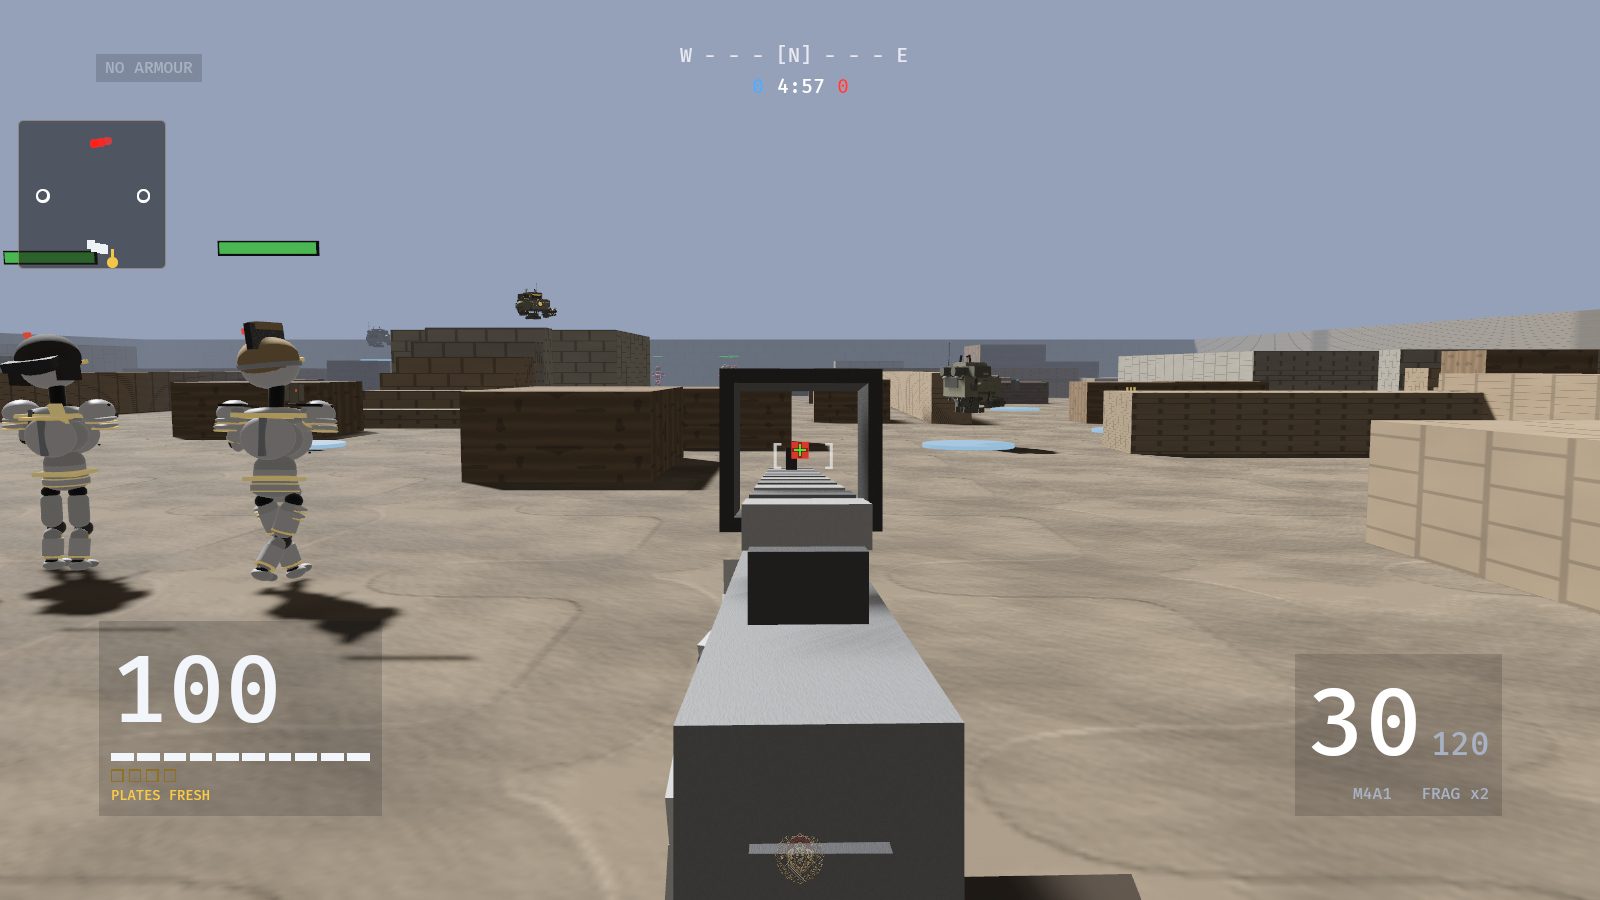
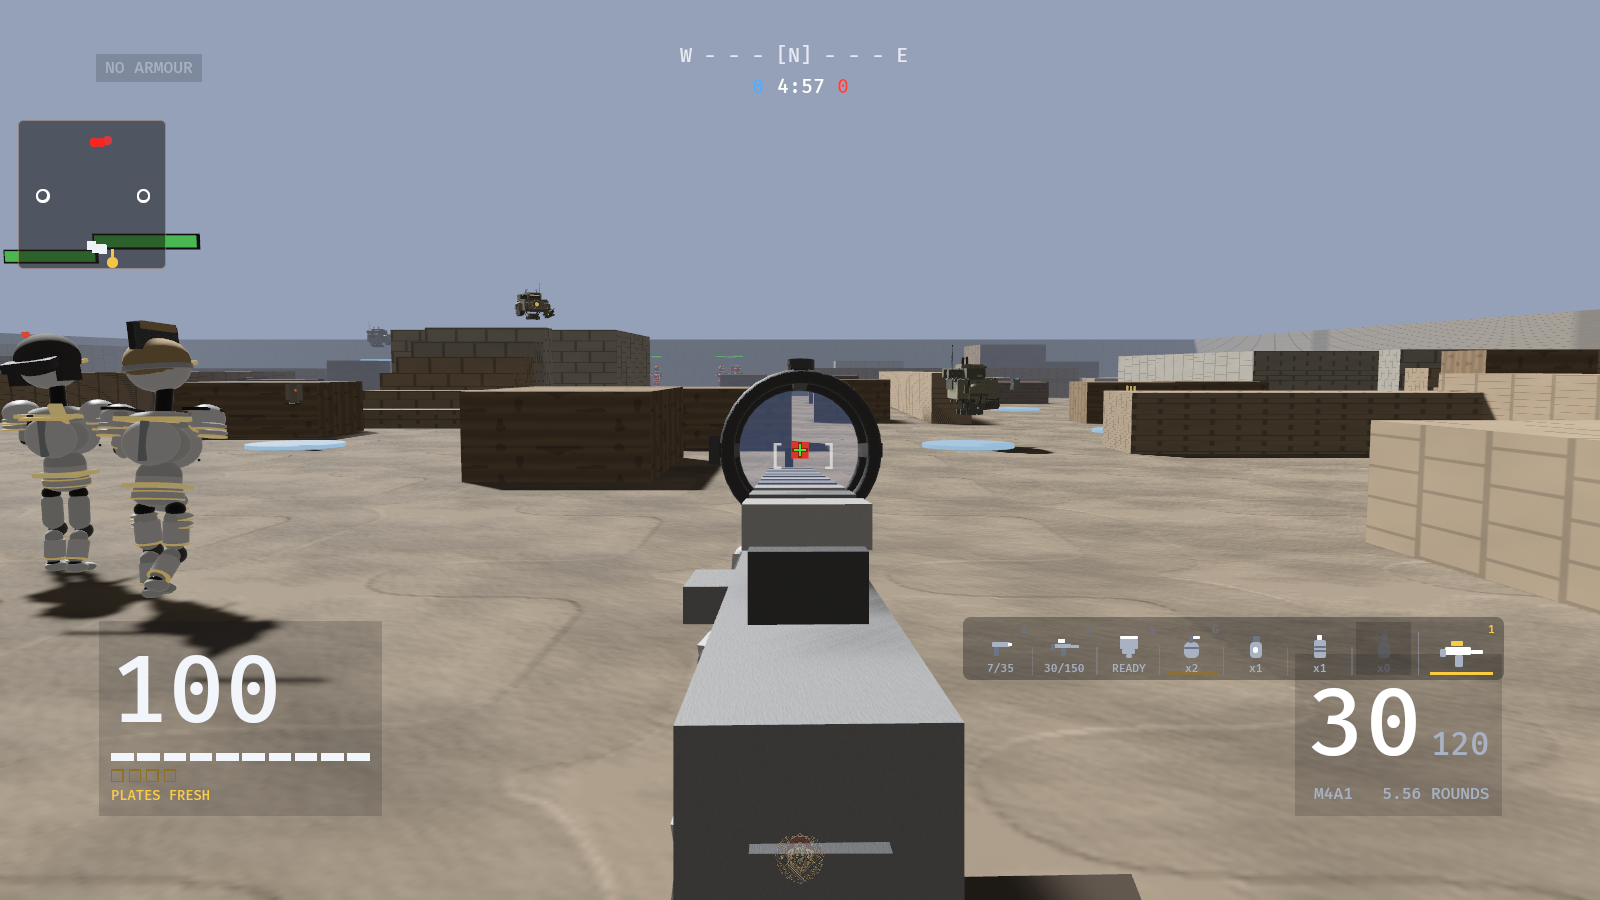
The optic is a round tube now, because the octagon did not close
The first attempt built the tube as an octagonal ring - four straight
walls with cylindrical corner rounds on the diagonals - and the
capture killed it. sights_a photographed four bars with four detached
black dots floating at the corners, because the rounds sit at radius
outer while the bar ends sit at radius outer*1.22, leaving a 5 mm gap
on every diagonal. Closing that gap needs rounds fat enough to eat
5 mm of the window, so the shape is not constructible: WPart's tilt
rotates about X only, and no box in this vocabulary can lie on a 45
degree diagonal.

So the ring becomes a primitive. ModelKit carries an optic_ring mesh -
a torus baked at the optic's own major:minor ratio so it takes a
UNIFORM scale, since a non-uniform scale on a torus shears it into an
oval - and WPart gains a "ring" flag beside "cyl". A flag rather than
a Prim enum because the cyl bool is threaded through hundreds of calls
and the spear profile, and one mesh used in one place does not justify
renaming every weapon in the file.

The tube is two bezels joined by four flush struts: skeletal rather
than a shell, because the shell of a real tube is opaque and an opaque
shell in a 1x sight is a sight you cannot aim through. Front-on it is
one circle; from the side, two circles with depth between them.

The bezels are placed so the bore is exactly OPTIC_HALF and the outer
face is exactly where the flat frame's was, so the clear aperture and
all eight screen profiles are unchanged.
[…]

diff --git a/engine/crates/jk_tdm/src/main.rs b/engine/crates/jk_tdm/src/main.rs
@@ -4075,6 +4075,22 @@ struct ModelKit {
     cube: Handle<Mesh>,
     cyl: Handle<Mesh>, // unit cylinder: radius 0.5, height 1, axis Y
     ball: Handle<Mesh>, // unit sphere: radius 0.5
+    /// §owner RED DOT: the optic's TUBE RING, axis Y, overall radius 0.5.
+    ///
+    /// A purpose-proportioned mesh rather than a generic torus, and that
+    /// is deliberate: a ring has two radii, so a generic one would need
+    /// a non-uniform scale to reach the optic's proportions and a
+    /// non-uniform scale on a torus shears it into an oval. Baked at the
+    /// optic's own major:minor ratio it takes a UNIFORM scale, and the
+    /// one scale factor is the ring's overall diameter.
+    ///
+    /// It exists because the tube cannot be built from the box-and-
+    /// cylinder kit at all. A solid cylinder is a solid disc to aim
+    /// through, and an octagon of boxes is not constructible: `WPart`'s
+    /// `tilt` rotates about X only, so no box in this vocabulary can sit
+    /// on a 45 degree diagonal. That was tried first and photographed as
+    /// four bars with four detached dots floating at the corners.
+    optic_ring: Handle<Mesh>,
     gunmetal: Handle<StandardMaterial>,
     steel: Handle<StandardMaterial>,
     wood: Handle<StandardMaterial>,
@@ -4367,6 +4383,14 @@ impl ModelKit {
 /// (the bow stands along +Y with its string toward −Z).
 struct WPart {
     cyl: bool,
+    /// true → the optic's TUBE RING mesh instead of a box or a cylinder.
+    ///
+    /// A third flag rather than a `Prim` enum on purpose: `cyl: bool` is
+    /// threaded through a couple of hundred `wp()` calls and the spear
+    /// profile, and widening it to an enum would be a rename touching
+    /// every weapon in the file to add one mesh used in one place.
+    /// `ring` takes its size as the ring's overall DIAMETER, uniformly.
+    ring: bool,
     tone: Tone,
     pos: Vec3,
     /// radians about X - magazines and stocks are raked, never square
@@ -4411,7 +4435,14 @@ fn wp(cyl: bool, tone: Tone, pos: (f32, f32, f32), tilt: f32, size: (f32, f32, f
         size: Vec3::new(size.0, size.1, size.2),
         detail: false,
         spin: false,
+        ring: false,
     }
+}
+
+/// The optic's tube ring. `d` is the ring's OVERALL diameter and the
+/// scale is uniform, which is what keeps it circular.
+fn wo(tone: Tone, pos: (f32, f32, f32), tilt: f32, d: f32) -> WPart {
+    WPart { ring: true, ..wp(false, tone, pos, tilt, (d, d, d)) }
 }
 
 fn wd(cyl: bool, tone: Tone, pos: (f32, f32, f32), tilt: f32, size: (f32, f32, f32)) -> WPart {
@@ -4891,6 +4922,16 @@ const OPTIC_DOT_M: f32 = 0.0062;
 /// every firearm's screen profile (`weapon_bounded_corners` measures
 /// it), so a tall turret would spend the whole remaining headroom of
 /// eight guns on decoration.
+/// The tube RING: centreline radius, wall radius, and the two summed.
+///
+/// The centreline is placed so the ring's inner face is exactly
+/// `OPTIC_HALF` - the clear aperture is preserved to the millimetre -
+/// and its outer face is exactly where the old flat frame's outer face
+/// was, so the eight guns' screen profiles measure the same reach they
+/// always did.
+const OPTIC_RING_MAJOR: f32 = OPTIC_HALF + OPTIC_FRAME * 0.5;
+const OPTIC_RING_MINOR: f32 = OPTIC_FRAME * 0.5;
+const OPTIC_RING_OUTER: f32 = OPTIC_RING_MAJOR + OPTIC_RING_MINOR;
 const OPTIC_TURRET_D: f32 = 0.010;
 const OPTIC_TURRET_H: f32 = 0.004;
 /// The mount FOOT - the flat clamp plate that sits on the rail, wider
@@ -4923,13 +4964,7 @@ const RETICLE_DRIFT_M: f32 = 0.0075;
 /// The cross is 1x - it moves the AIM POINT nowhere. It is a sight
 /// picture, not a zoom: magnification stays whatever `zoom_deg` says.
 fn push_red_dot(parts: &mut Vec<WPart>, y: f32, z: f32, mount_top: f32) {
-    // `outer` is the ring's CENTRELINE radius, and the whole housing is
-    // built on it: bars sit at it, corner rounds are centred on it, so
-    // every point of the ring is `outer +/- OPTIC_FRAME/2` from centre.
-    // That keeps the outermost reach identical to the flat frame this
-    // replaced - which matters, because eight guns' screen profiles are
-    // measured off this geometry.
-    let outer = OPTIC_HALF + OPTIC_FRAME * 0.5;
+    let outer = OPTIC_RING_MAJOR;
     // The check the flat frame carried compared `y - outer` - the lower
     // BAR'S CENTRELINE - against the receiver, so it was quietly
     // permitting half a bar of overlap. The real lower face is half a
@@ -4950,36 +4985,35 @@ fn push_red_dot(parts: &mut Vec<WPart>, y: f32, z: f32, mount_top: f32) {
     );
     // ---- THE TUBE ----------------------------------------------------
     //
-    // §owner "more realistic": a reflex optic is a round TUBE with a
-    // coated lens, not the flat open square this was. It cannot be an
-    // actual cylinder - a solid cylinder is a solid disc to look at, and
-    // this is a sight you aim through - so the tube is an OCTAGONAL
-    // RING: four straight walls with four cylindrical corner rounds
-    // filling the diagonals. From the shooter's eye that silhouette
-    // reads round; the window through it stays fully open.
+    // §owner "more realistic": a reflex optic is a round TUBE you look
+    // through a coated lens of, not the flat open square this was.
     //
-    // The corners must be cylinders and the walls must be boxes because
-    // `tilt` rotates about X only: there is no way to place a box on a
-    // 45 degree diagonal in this kit, and a Bevy cylinder tilted a
-    // quarter turn is exactly the Z-aligned rod a corner needs.
-    const DIAG: f32 = std::f32::consts::FRAC_1_SQRT_2;
-    let corner = outer * DIAG; // centre of each corner round
-    let wall = corner * 2.0; // straight run between two corners
-    for (x, yy, sx, sy) in [
-        (-outer, 0.0, OPTIC_FRAME, wall),
-        (outer, 0.0, OPTIC_FRAME, wall),
-        (0.0, outer, wall, OPTIC_FRAME),
-        (0.0, -outer, wall, OPTIC_FRAME),
-    ] {
-        parts.push(wp(false, Tone::Black, (x, y + yy, z), 0.0, (sx, sy, OPTIC_DEPTH)));
-    }
-    for (sx, sy) in [(-1.0_f32, -1.0_f32), (-1.0, 1.0), (1.0, -1.0), (1.0, 1.0)] {
-        parts.push(wp(
-            true,
+    // Two RINGS - an objective bezel at the muzzle end and an ocular
+    // bezel at the eye end - joined by four flush struts. That is a
+    // skeletal tube rather than a shell, and it has to be: the shell of
+    // a real tube is opaque, and an opaque shell in a 1x sight is a
+    // sight you cannot aim through. The rings carry the whole read.
+    // Front-on you see one circle; from the side, two circles and the
+    // struts between them, which is a tube.
+    //
+    // The struts sit at the four cardinal points with exactly the wall's
+    // own square section, so each one hides inside its ring's silhouette
+    // instead of breaking the circle.
+    for zz in [-1.0_f32, 1.0] {
+        parts.push(wo(
             Tone::Black,
-            (corner * sx, y + corner * sy, z),
+            (0.0, y, z + zz * OPTIC_DEPTH * 0.45),
             FRAC_PI_2,
-            (OPTIC_FRAME, OPTIC_DEPTH, OPTIC_FRAME),
+            OPTIC_RING_OUTER * 2.0,
+        ));
+    }
+    for (x, yy) in [(-outer, 0.0), (outer, 0.0), (0.0, outer), (0.0, -outer)] {
+        parts.push(wp(
+            false,
+            Tone::Black,
+            (x, y + yy, z),
+            0.0,
+            (OPTIC_FRAME, OPTIC_FRAME, OPTIC_DEPTH),
         ));
     }
     // ---- THE LENS ----------------------------------------------------
@@ -10794,7 +10828,13 @@ fn spawn_weapon_model(
         if p.detail && !with_detail {
             continue; // bots carry the plain silhouette - the LOD working
         }
-        let mesh = if p.cyl { kit.cyl.clone() } else { kit.cube.clone() };
+        let mesh = if p.ring {
+            kit.optic_ring.clone()
+        } else if p.cyl {
+            kit.cyl.clone()
+        } else {
+            kit.cube.clone()
+        };
         let mut e = commands.spawn((
             Mesh3d(mesh),
             MeshMaterial3d(kit.tone(p.tone)),
@@ -16087,6 +16127,13 @@ fn setup(
     let kit = ModelKit {
         cube: meshes.add(with_tangents(Cuboid::new(1.0, 1.0, 1.0).into())),
         cyl: meshes.add(with_tangents(Cylinder::new(0.5, 1.0).into())),
+        optic_ring: meshes.add(with_tangents(
+            Torus {
+                minor_radius: 0.5 * OPTIC_RING_MINOR / OPTIC_RING_OUTER,
+                major_radius: 0.5 * OPTIC_RING_MAJOR / OPTIC_RING_OUTER,
+            }
+            .into(),
+        )),
         ball: meshes.add(with_tangents(Sphere::new(0.5).mesh().uv(24, 12))),
         grey_light: materials.add(tex_metal(Color::srgb_u8(0xC8, 0xC9, 0xCB), 0.05, 0.60, 3.0)),
         grey_mid: materials.add(tex_metal(Color::srgb_u8(0x8A, 0x8C, 0x8F), 0.05, 0.60, 3.0)),
@@ -16635,7 +16682,10 @@ fn setup(
             // a cool blue-violet coating sheen at 14% - enough to catch
             // the eye as GLASS at the edges, not enough to colour the
             // world seen through it.
-            base_color: Color::srgba(0.42, 0.60, 0.95, 0.14),
+            // 9%, down from the 14% first tried: at 14% the disc
+            // photographed as a solid blue puck filling the window
+            // rather than as a sheen on glass. See the sights_a frames.
+            base_color: Color::srgba(0.46, 0.62, 0.95, 0.09),
             unlit: true,
             alpha_mode: AlphaMode::Blend,
             double_sided: true,

diff --git a/engine/crates/jk_tdm/src/main_tests.rs b/engine/crates/jk_tdm/src/main_tests.rs
@@ -1038,18 +1038,26 @@ mod band_tests {
         // aperture by construction, yet clear in NEITHER axis alone.
         //
         // Each primitive is measured as the primitive it is. A box
-        // contributes the nearest point of its footprint; a cylinder
-        // contributes its axis distance minus its radius, because a
-        // corner round's AABB is meaningfully fatter than the round
-        // itself and bounding it by that box would reject geometry
-        // that never enters the window.
-        let mut saw_round = false;
+        // contributes the nearest point of its footprint; a RING
+        // contributes its own inner bore, because bounding a ring by
+        // its box would say the tube fills the very window it opens.
+        let mut rings = 0;
         for b in parts.iter().filter(|p| p.tone == Tone::Black) {
             let (cx, cy) = (b.pos.x, b.pos.y - 0.10);
-            let near = if b.cyl {
-                saw_round = true;
-                // a Z-aligned round: radius is half its X extent
-                (cx * cx + cy * cy).sqrt() - b.size.x * 0.5
+            let near = if b.ring {
+                rings += 1;
+                assert!(
+                    (b.size.x - b.size.y).abs() < 1e-6
+                        && (b.size.x - b.size.z).abs() < 1e-6,
+                    "the ring's scale must be uniform or it is an oval, not a tube"
+                );
+                assert!(
+                    cx.abs() < 1e-6 && cy.abs() < 1e-6,
+                    "a bezel off the sight axis would crop the window from one side"
+                );
+                // overall diameter back to the bore it leaves open
+                b.size.x * 0.5 * (OPTIC_RING_MAJOR - OPTIC_RING_MINOR)
+                    / OPTIC_RING_OUTER
             } else {
                 let dx = (cx.abs() - b.size.x * 0.5).max(0.0);
                 let dy = (cy.abs() - b.size.y * 0.5).max(0.0);
@@ -1060,10 +1068,11 @@ mod band_tests {
                 "the tube intrudes into the clear window: {near} vs the {OPTIC_HALF} aperture"
             );
         }
-        // and the tube really is a ROUND one - four straight walls with
-        // the diagonals filled. Without this the check above is happy
-        // with the flat square frame it replaced.
-        assert!(saw_round, "the optic body must be a tube, not a flat frame");
+        // and the body really is a TUBE: two bezels, so it has depth and
+        // reads round from the side as well as down the bore. Without
+        // this the check above is perfectly happy with the flat square
+        // frame this replaced.
+        assert_eq!(rings, 2, "the optic body is two bezels joined into a tube");
         // the objective LENS: present, translucent, and filling the
         // window rather than blocking it.
         let glass: Vec<&WPart> = parts.iter().filter(|p| p.tone == Tone::Glass).collect();
